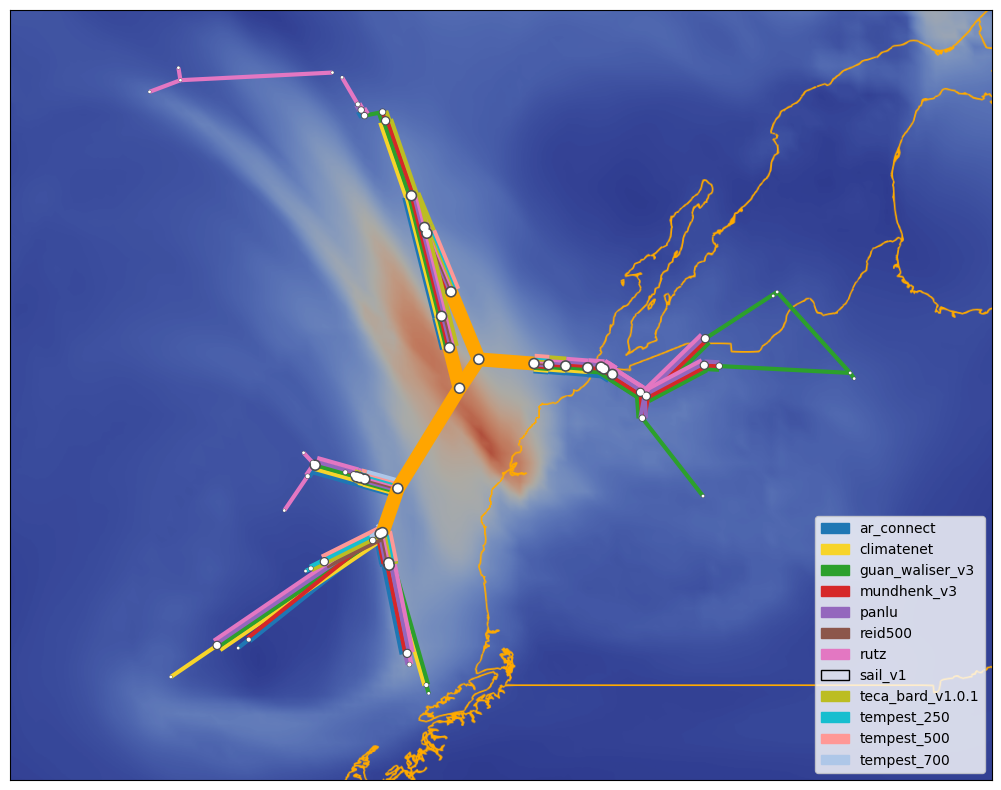
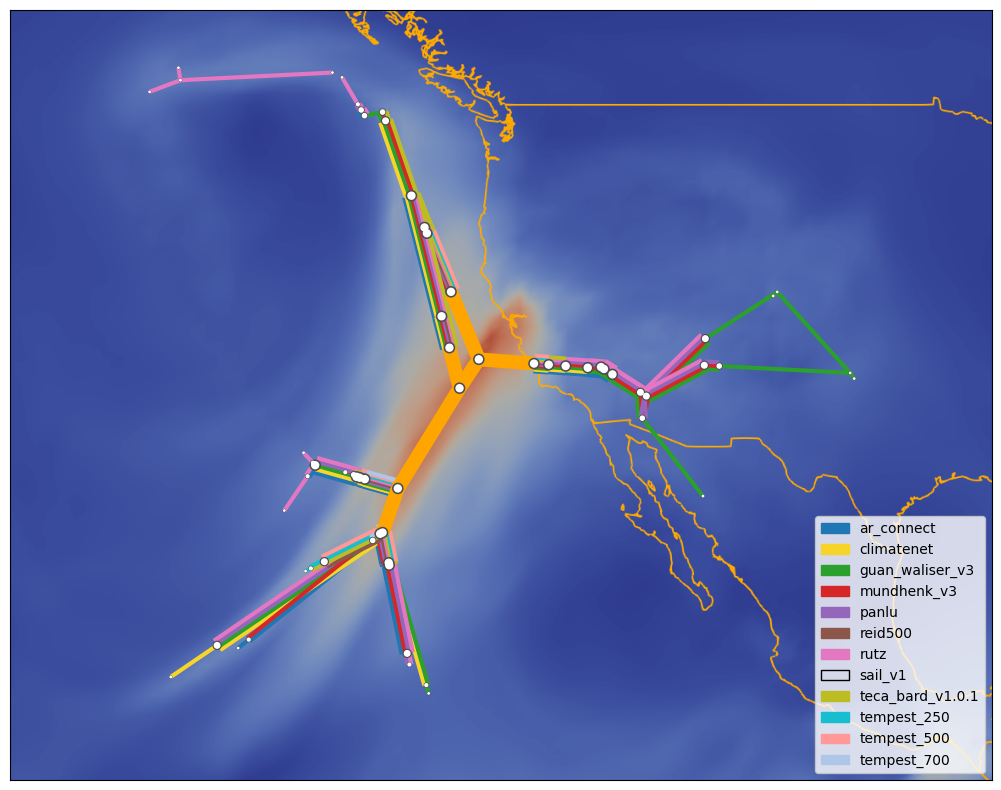
fixed the figure orientation

diff --git a/getMetroSet.py b/getMetroSet.py
@@ -584,7 +584,7 @@ def drawFromJSON(ensemble_path, sim_threshold, color_dict, xlimit, ylimit):
     print(background_name)
     background_img = plt.imread(background_name)
     # plt.imshow(background_img, zorder=0, extent=[xlimit[0], xlimit[1], ylimit[0], ylimit[1]])
-    plt.imshow(background_img, zorder=0, extent=[xlimit[0], xlimit[1], ylimit[1], ylimit[0]])
+    plt.imshow(background_img, zorder=0, extent=[xlimit[0], xlimit[1], ylimit[0], ylimit[1]])
     img_name = background_name.split("/")[-1]
     # plt.savefig("./CaseStudies/20061023/" + img_name, bbox_inches='tight')
     # plt.savefig("./CaseStudies/20170107/" + img_name, bbox_inches='tight')
